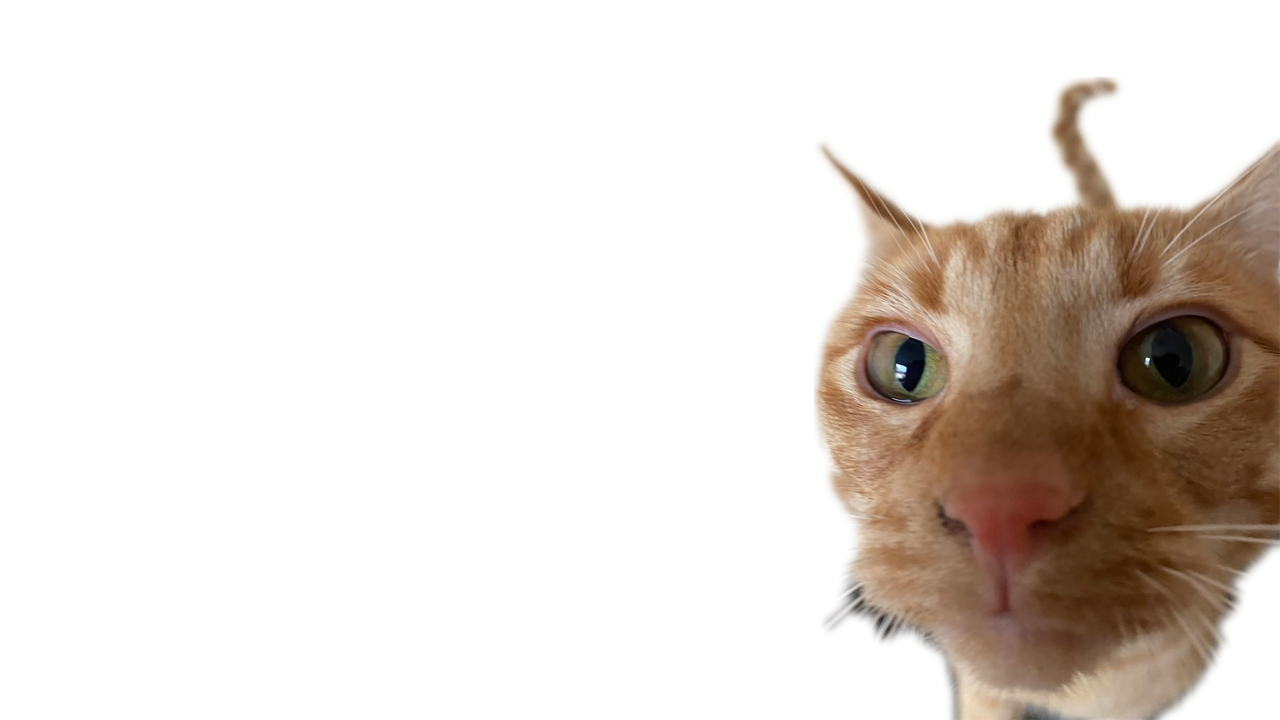
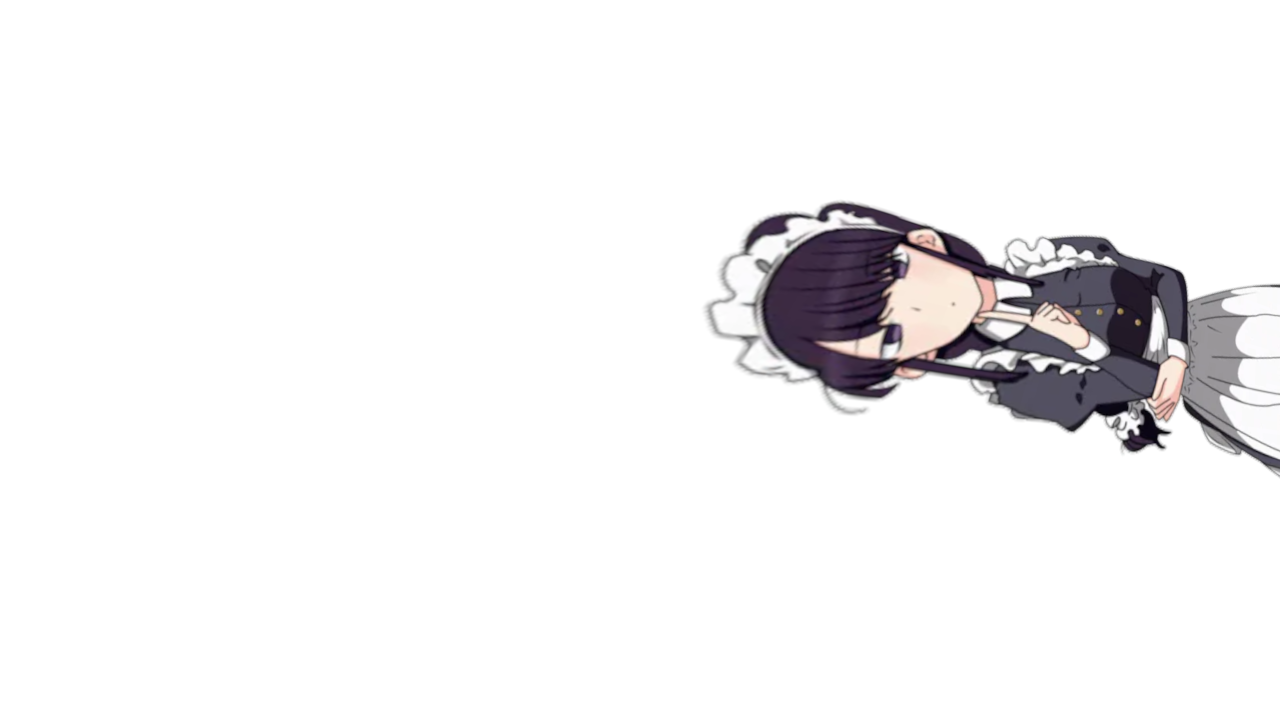
removing Jambo :( + fixing web issues

Changed region(s): [[0.5312, 0.0917, 1.0, 1.0]]

diff --git a/main.js b/main.js
@@ -1,117 +1,70 @@
-(() =>
-    {
-        const imageFilePath = "assets/images/";
-        const numImages = 35;
-        const flipRandomPercent = 2; //NOTE: the number represents how many numbers to randomly choose. bigger = less likely, smaller = more likely.
-        var isEnabled = true;
+(() => {
+  const imageFilePath = "assets/images/";
+  const numImages = 35;
+  const flipRandomPercent = 2;
+  const isEnabled = true;
 
-        //NOTE: The purpose of this function is to get all YouTube thumbnails on the page
-        function getThumbnails()
-        {
-            const thumbnailQuery = "ytd-thumbnail:not(.ytd-video-preview, .ytd-rich-grid-slim-media) a > yt-image > img.yt-core-image:only-child:not(.yt-core-attributed-string__image-element),.ytp-videowall-still-image:not([style*='extension:'])";
+  const SELECTOR = "ytd-thumbnail img, .ytp-videowall-still-image";
 
-            const thumbnail = document.querySelectorAll(thumbnailQuery);
+  function getImageURL(index) {
+    return chrome.runtime.getURL(`${imageFilePath}${index}.png`);
+  }
 
-            thumbnail.forEach((image) =>
-                {
-                    let counter = Math.random() > 0.001 ? 1 : 20;
-                    let i = 0;
-                    for(i = 0; i < counter; i++)
-                    {
-                        const index = getRandomImage();
-                        let flip = getImageState();
-                        let url = getImageURL(index);
-                        applyThumbnails(image, url, flip);
-                    }
-                }
-            )
-        }
+  function getRandomInt(max) {
+    return Math.floor(Math.random() * max);
+  }
 
-        //NOTE: The purpose of this function is to return the url of an image
-        function getImageURL(index)
-        {
-            return chrome.runtime.getURL(`${imageFilePath}${index}.png`);
-        }
+  function getRandomImage() {
+    return getRandomInt(numImages + 1);
+  }
 
-        //NOTE: The purpose of this function is to apply the thumbnail images to the thumbnails on YouTube.com
-        function applyThumbnails(image, imageUrl, flip = false)
-        {
-            if (image.nodeName == "IMG")
-            {
-                const overlay = document.createElement("img");
-                overlay.src = imageUrl;
-                overlay.style.position = "absolute";
-                overlay.style.top = "0";
-                overlay.style.left = "0";
-                overlay.style.width = "100%";
-                overlay.style.height = "100%";
-                overlay.style.zIndex = "0";
-                if(flip)
-                {
-                    overlay.style.transform = "scaleX(-1)"; //flips the image
-                }
-                image.style.position = "relative";
-                image.parentElement.appendChild(overlay);
-            }
-            else if (image.nodeName == "DIV")
-            {
-                image.style.backgroundImage = `url("${imageUrl}"), ` + image.style.backgroundImage;
-            }
-        }
+  function getImageState() {
+    return getRandomInt(flipRandomPercent) === 1;
+  }
 
-        //NOTE: The purpose of this function is to take in a max number, and return a random number from 0 to that max number
-        function getRandomInt(max)
-        {
-            return Math.floor(Math.random() * max);
-        }
+  function applyThumbnails(el, imageUrl, flip = false) {
+    if (el.dataset.komifyApplied === "1") return;
+    el.dataset.komifyApplied = "1";
 
-        //NOTE: The purpose of this function is to get a random image to display
-        function getRandomImage()
-        {
-            //NOTE: percent is even across the board for any given image to be chosen
+    if (el.nodeName === "IMG") {
+      const parent = el.parentElement;
+      if (!parent) return;
 
-            let random = 0;
-            random = getRandomInt(numImages + 1); //NOTE: +1 is because max is not inclusive
-            return random;
-        }
+      const parentStyle = getComputedStyle(parent);
+      if (parentStyle.position === "static") parent.style.position = "relative";
 
-        //NOTE: The purpose of this function is to randomly determine whether or not to flip the image or not
-        function getImageState()
-        {
-            //NOTE: percent to flip is default 50% when flipRandomPercent = 2
+      const overlay = document.createElement("img");
+      overlay.src = imageUrl;
+      overlay.style.position = "absolute";
+      overlay.style.top = "0";
+      overlay.style.left = "0";
+      overlay.style.width = "100%";
+      overlay.style.height = "100%";
+      overlay.style.objectFit = "cover";
+      overlay.style.zIndex = "2";
+      overlay.style.pointerEvents = "none";
 
-            let random = 0;
-            random = getRandomInt(flipRandomPercent); //returns a random number from 0 to flipRandomPercent
+      if (flip) overlay.style.transform = "scaleX(-1)";
 
-            if(random === 1)
-            {
-                return true; //STATE: flip image
-            }
-            else
-            {
-                return false; //STATE: do not flip image
-            }
-
-        }
-
-        //NOTE: The purpose of this function is to check if an image exists
-        async function doesImageExist(index)
-        {
-            const url = getImageURL(index);
-
-            return fetch(url).then(() =>
-            {
-                return true
-            }).catch(error =>
-            {
-                return false
-            })
-        }
-
-        //runs the functions
-        if(isEnabled) //checks if the user has disabled the plugin or not
-        {
-            setInterval(getThumbnails, 100);
-        }
+      parent.appendChild(overlay);
+    } else if (el.nodeName === "DIV") {
+      el.style.backgroundImage = `url("${imageUrl}"), ${el.style.backgroundImage || "none"}`;
+      el.style.backgroundSize = "cover";
     }
-)();
+  }
+
+  function processAll() {
+    document.querySelectorAll(SELECTOR).forEach((el) => {
+      const url = getImageURL(getRandomImage());
+      const flip = getImageState();
+      applyThumbnails(el, url, flip);
+    });
+  }
+
+  if (isEnabled) {
+    processAll();
+
+    const obs = new MutationObserver(() => processAll());
+    obs.observe(document.documentElement, { childList: true, subtree: true });
+  }
+})();
